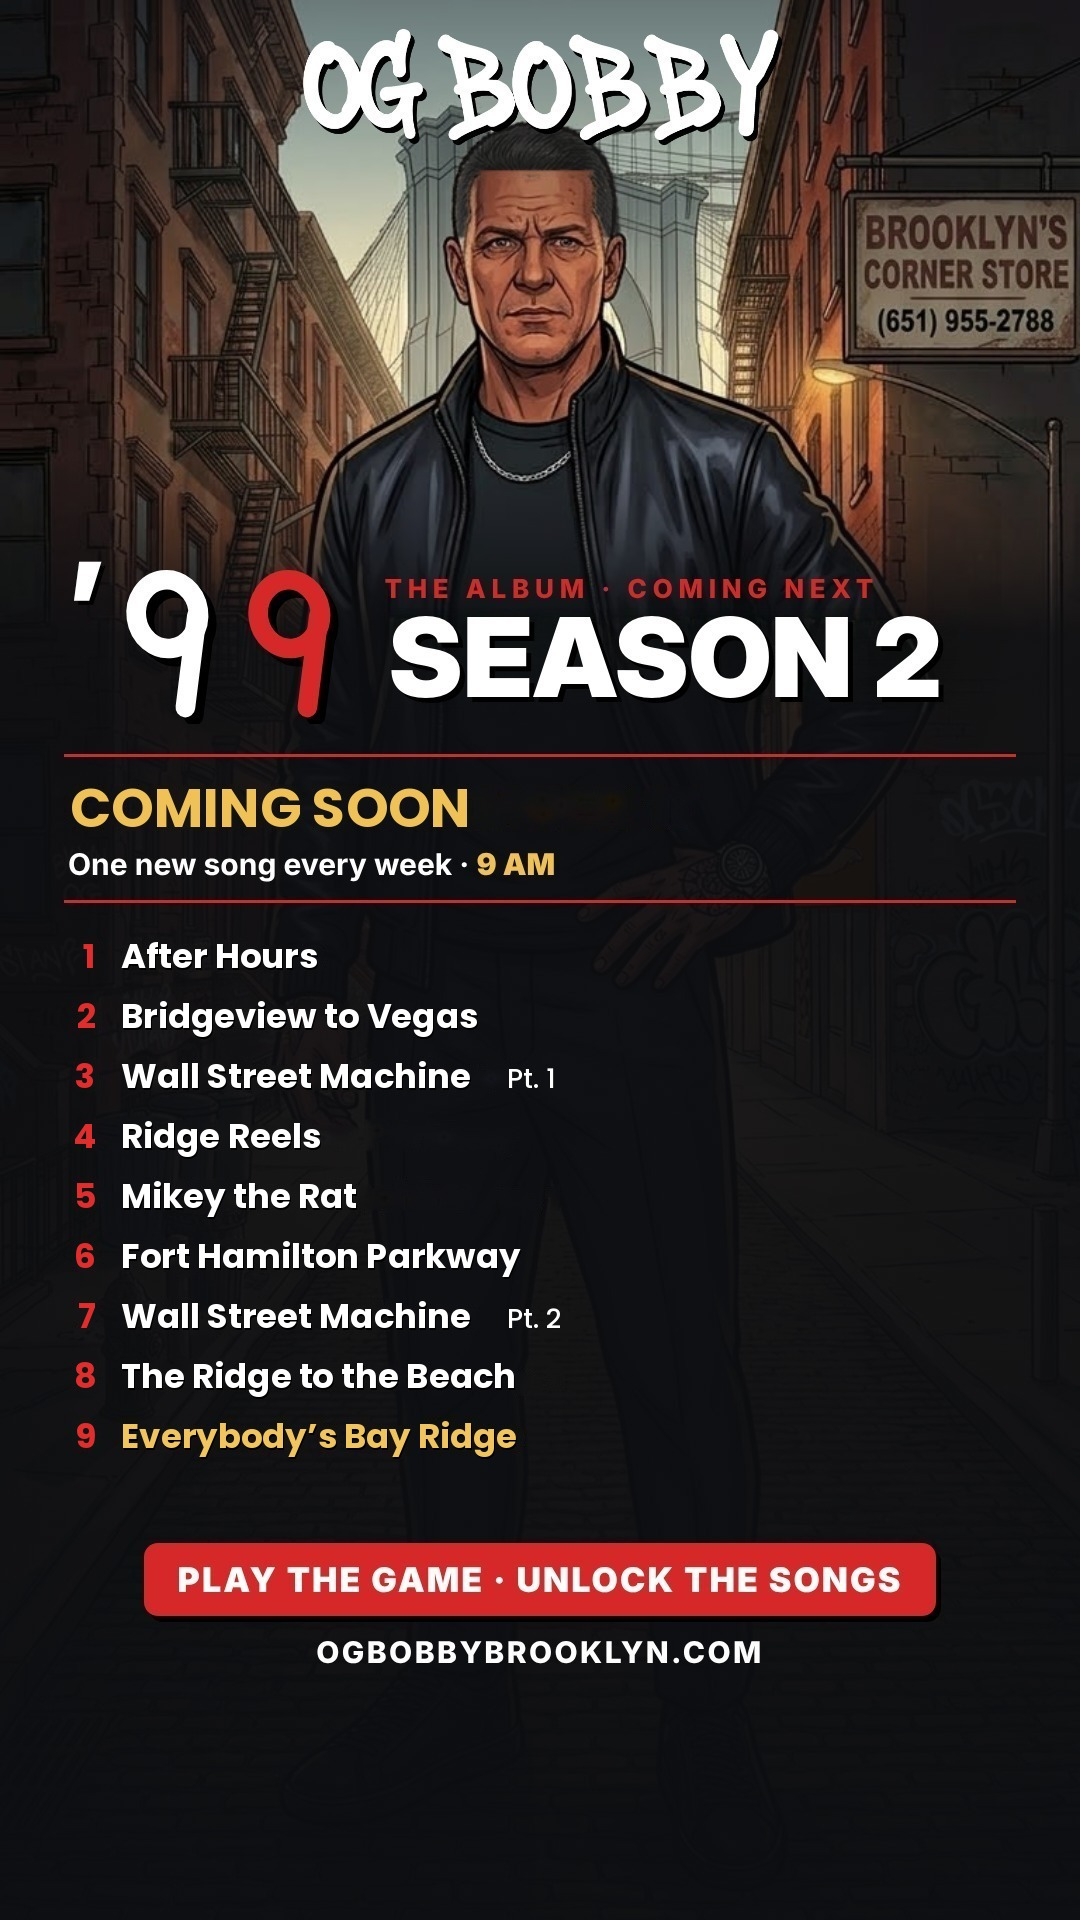
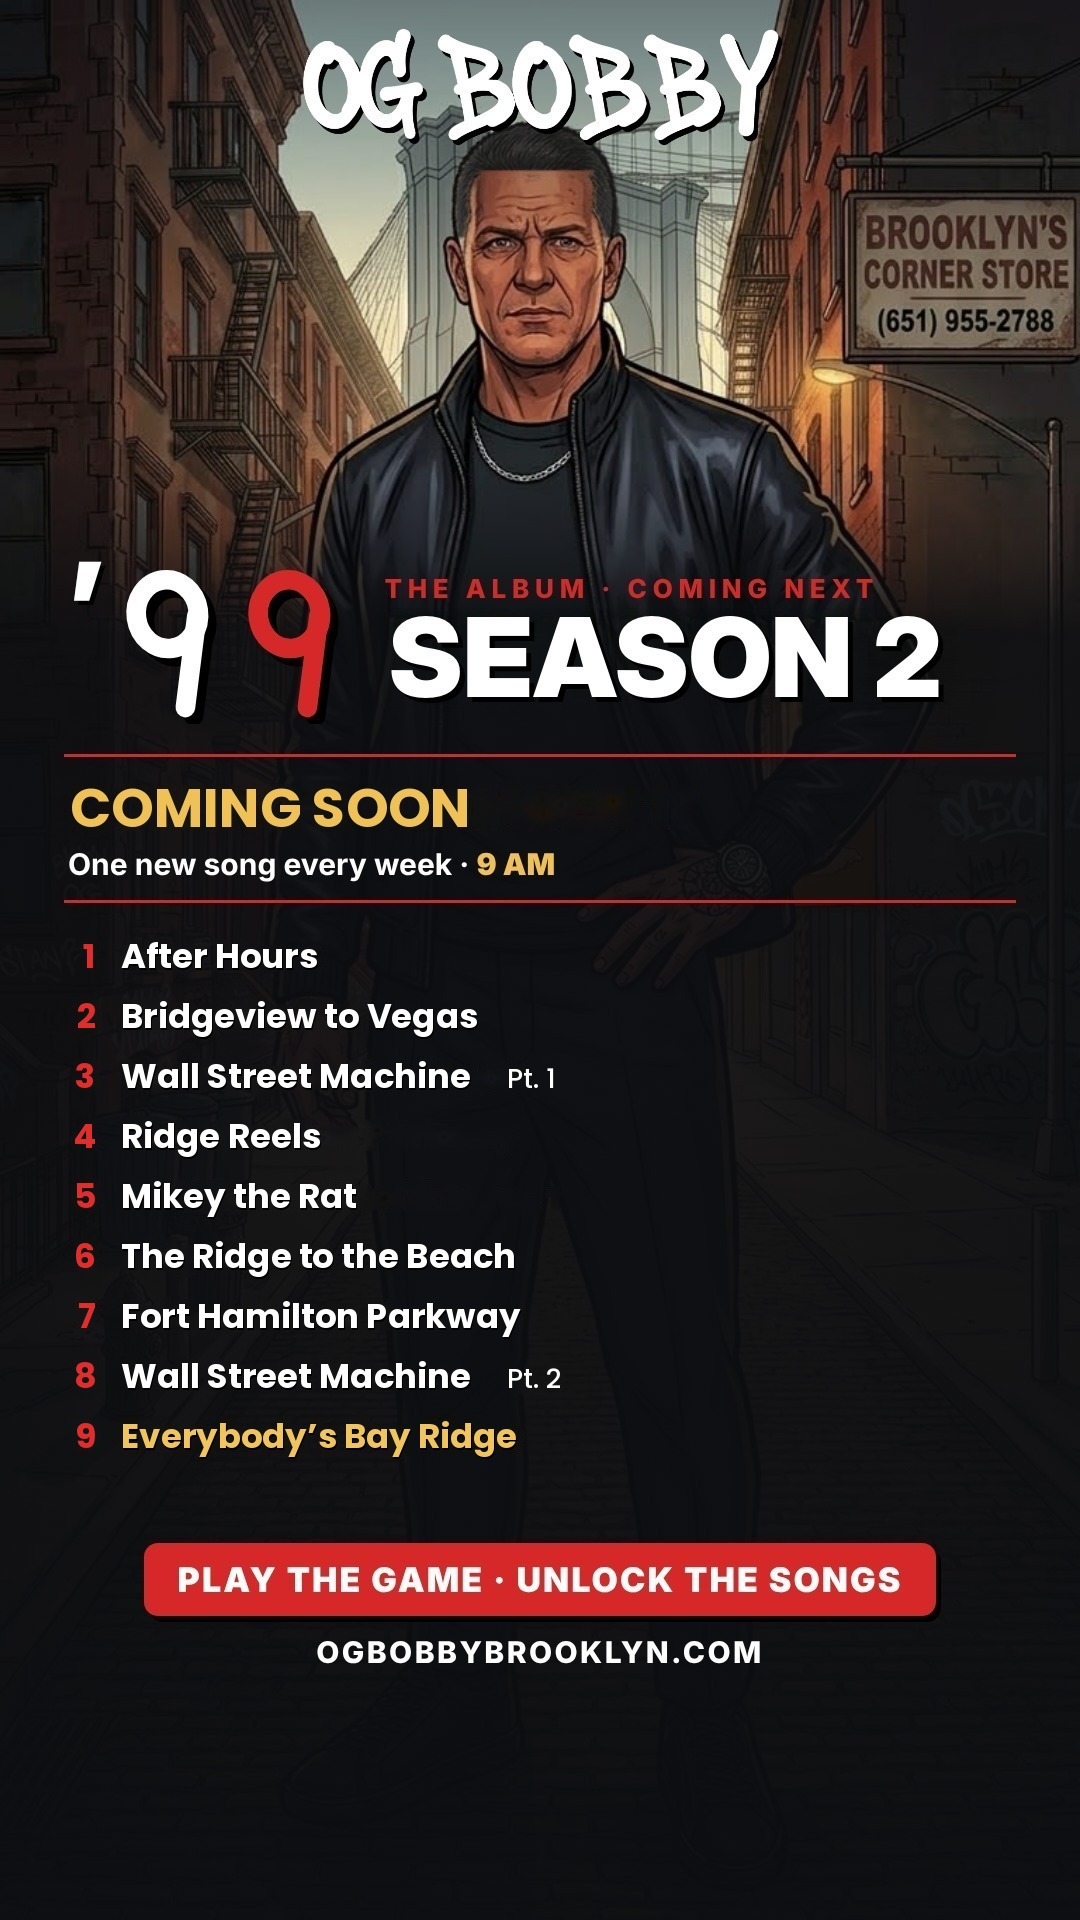
Season 2 order: Ridge to the Beach 6, Fort Hamilton Parkway 7, Wall Street Machine Pt. 2 at 8; retag songs and promo art
Claude-Session: https://claude.ai/code/session_01BpZKenSvxs4uDVQTWvuMZ1

Changed region(s): [[0.1222, 0.625, 0.5194, 0.75]]

diff --git a/og-made-99-feafc5/index.html b/og-made-99-feafc5/index.html
@@ -143,7 +143,7 @@ footer { color: var(--soft); font-size: .8rem; text-align: center; }
 </div>
 <audio id="audio" preload="metadata"></audio>
 <script>
-const CFG = {"mode": "tracks", "mix": "", "tracks": [{"t": "Whatever It Takes", "f": "36205c960b63.mp3", "d": 157.52, "s": 0.0, "n": 1, "se": 1}, {"t": "Ridge Brothers", "f": "59371541676c.mp3", "d": 206.39, "s": 0.0, "n": 2, "se": 1}, {"t": "Bay Ridge Nights", "f": "0cffe671ed63.mp3", "d": 187.17, "s": 0.0, "n": 3, "se": 1}, {"t": "The Get Back (Raw Cut)", "f": "628661269f01.mp3", "d": 202.42, "s": 0.0, "n": 4, "se": 1}, {"t": "Pioneer", "f": "2fcf00af916f.mp3", "d": 202.27, "s": 0.0, "n": 5, "se": 1}, {"t": "Bars & Clubs", "f": "e3f3994d13d2.mp3", "d": 160.99, "s": 0.0, "n": 6, "se": 1}, {"t": "Bay Ridge Is Mine", "f": "07e0acbb50a5.mp3", "d": 270.16, "s": 0.0, "n": 7, "se": 1}, {"t": "Black Rob", "f": "2ddaa23c04ec.mp3", "d": 214.18, "s": 0.0, "n": 8, "se": 1}, {"t": "Positivity Spreads", "f": "04ad61a7d37e.mp3", "d": 222.8, "s": 0.0, "n": 9, "se": 1}, {"t": "After Hours", "f": "f999844d0224.mp3", "d": 277.37, "s": 0.0, "n": 1, "se": 2}, {"t": "Bridgeview to Vegas", "f": "b54a71f1b2ed.mp3", "d": 244.82, "s": 0.0, "n": 2, "se": 2}, {"t": "Wall Street Machine, Pt. 1", "f": "78a96d218928.mp3", "d": 186.02, "s": 0.0, "n": 3, "se": 2}, {"t": "Ridge Reels", "f": "daec866bb022.mp3", "d": 114.43, "s": 0.0, "n": 4, "se": 2}, {"t": "Mikey the Rat", "f": "cc5d301f8062.mp3", "d": 245.94, "s": 0.0, "n": 5, "se": 2}, {"t": "Fort Hamilton Parkway", "f": "3e21ffaaa1e1.mp3", "d": 262.44, "s": 0.0, "n": 6, "se": 2}, {"t": "Wall Street Machine, Pt. 2", "f": "256b761215fd.mp3", "d": 172.22, "s": 0.0, "n": 7, "se": 2}, {"t": "The Ridge to The Beach", "f": "7da0390d9b18.mp3", "d": 121.75, "s": 0.0, "n": 8, "se": 2}, {"t": "Everybody's Bay Ridge", "f": "625ec773210c.mp3", "d": 216.02, "s": 0.0, "n": 9, "se": 2}]};
+const CFG = {"mode": "tracks", "mix": "", "tracks": [{"t": "Whatever It Takes", "f": "36205c960b63.mp3", "d": 157.52, "s": 0.0, "n": 1, "se": 1}, {"t": "Ridge Brothers", "f": "59371541676c.mp3", "d": 206.39, "s": 0.0, "n": 2, "se": 1}, {"t": "Bay Ridge Nights", "f": "0cffe671ed63.mp3", "d": 187.17, "s": 0.0, "n": 3, "se": 1}, {"t": "The Get Back (Raw Cut)", "f": "628661269f01.mp3", "d": 202.42, "s": 0.0, "n": 4, "se": 1}, {"t": "Pioneer", "f": "2fcf00af916f.mp3", "d": 202.27, "s": 0.0, "n": 5, "se": 1}, {"t": "Bars & Clubs", "f": "e3f3994d13d2.mp3", "d": 160.99, "s": 0.0, "n": 6, "se": 1}, {"t": "Bay Ridge Is Mine", "f": "07e0acbb50a5.mp3", "d": 270.16, "s": 0.0, "n": 7, "se": 1}, {"t": "Black Rob", "f": "2ddaa23c04ec.mp3", "d": 214.18, "s": 0.0, "n": 8, "se": 1}, {"t": "Positivity Spreads", "f": "04ad61a7d37e.mp3", "d": 222.8, "s": 0.0, "n": 9, "se": 1}, {"t": "After Hours", "f": "f999844d0224.mp3", "d": 277.37, "s": 0.0, "n": 1, "se": 2}, {"t": "Bridgeview to Vegas", "f": "b54a71f1b2ed.mp3", "d": 244.82, "s": 0.0, "n": 2, "se": 2}, {"t": "Wall Street Machine, Pt. 1", "f": "78a96d218928.mp3", "d": 186.02, "s": 0.0, "n": 3, "se": 2}, {"t": "Ridge Reels", "f": "daec866bb022.mp3", "d": 114.43, "s": 0.0, "n": 4, "se": 2}, {"t": "Mikey the Rat", "f": "cc5d301f8062.mp3", "d": 245.94, "s": 0.0, "n": 5, "se": 2}, {"t": "The Ridge to The Beach", "f": "7da0390d9b18.mp3", "d": 121.75, "s": 0.0, "n": 6, "se": 2}, {"t": "Fort Hamilton Parkway", "f": "3e21ffaaa1e1.mp3", "d": 262.44, "s": 0.0, "n": 7, "se": 2}, {"t": "Wall Street Machine, Pt. 2", "f": "256b761215fd.mp3", "d": 172.22, "s": 0.0, "n": 8, "se": 2}, {"t": "Everybody's Bay Ridge", "f": "625ec773210c.mp3", "d": 216.02, "s": 0.0, "n": 9, "se": 2}]};
 const T = CFG.tracks, FADE = CFG.mode === "fade";
 const audio = document.getElementById("audio");
 const $ = id => document.getElementById(id);

diff --git a/og-made-2-9009fa/index.html b/og-made-2-9009fa/index.html
@@ -137,7 +137,7 @@ footer { color: var(--soft); font-size: .8rem; text-align: center; }
 </div>
 <audio id="audio" preload="metadata"></audio>
 <script>
-const CFG = {"mode": "tracks", "mix": "", "tracks": [{"t": "After Hours", "f": "f999844d0224.mp3", "d": 277.37, "s": 0.0, "n": 1}, {"t": "Bridgeview to Vegas", "f": "b54a71f1b2ed.mp3", "d": 244.82, "s": 0.0, "n": 2}, {"t": "Wall Street Machine, Pt. 1", "f": "78a96d218928.mp3", "d": 186.02, "s": 0.0, "n": 3}, {"t": "Ridge Reels", "f": "daec866bb022.mp3", "d": 114.43, "s": 0.0, "n": 4}, {"t": "Mikey the Rat", "f": "cc5d301f8062.mp3", "d": 245.94, "s": 0.0, "n": 5}, {"t": "Fort Hamilton Parkway", "f": "3e21ffaaa1e1.mp3", "d": 262.44, "s": 0.0, "n": 6}, {"t": "Wall Street Machine, Pt. 2", "f": "256b761215fd.mp3", "d": 172.22, "s": 0.0, "n": 7}, {"t": "The Ridge to The Beach", "f": "7da0390d9b18.mp3", "d": 121.75, "s": 0.0, "n": 8}, {"t": "Everybody's Bay Ridge", "f": "625ec773210c.mp3", "d": 216.02, "s": 0.0, "n": 9}]};
+const CFG = {"mode": "tracks", "mix": "", "tracks": [{"t": "After Hours", "f": "f999844d0224.mp3", "d": 277.37, "s": 0.0, "n": 1}, {"t": "Bridgeview to Vegas", "f": "b54a71f1b2ed.mp3", "d": 244.82, "s": 0.0, "n": 2}, {"t": "Wall Street Machine, Pt. 1", "f": "78a96d218928.mp3", "d": 186.02, "s": 0.0, "n": 3}, {"t": "Ridge Reels", "f": "daec866bb022.mp3", "d": 114.43, "s": 0.0, "n": 4}, {"t": "Mikey the Rat", "f": "cc5d301f8062.mp3", "d": 245.94, "s": 0.0, "n": 5}, {"t": "The Ridge to The Beach", "f": "7da0390d9b18.mp3", "d": 121.75, "s": 0.0, "n": 6}, {"t": "Fort Hamilton Parkway", "f": "3e21ffaaa1e1.mp3", "d": 262.44, "s": 0.0, "n": 7}, {"t": "Wall Street Machine, Pt. 2", "f": "256b761215fd.mp3", "d": 172.22, "s": 0.0, "n": 8}, {"t": "Everybody's Bay Ridge", "f": "625ec773210c.mp3", "d": 216.02, "s": 0.0, "n": 9}]};
 const T = CFG.tracks, FADE = CFG.mode === "fade";
 const audio = document.getElementById("audio");
 const $ = id => document.getElementById(id);

diff --git a/season-2/index.html b/season-2/index.html
@@ -7,11 +7,11 @@
 <meta property="og:type" content="music.album">
 <meta property="og:title" content="OG Made · Season 2">
 <meta property="og:description" content="Coming soon. One new episode every week at 9 AM. Play the game and unlock the songs.">
-<meta property="og:image" content="https://ogbobbybrooklyn.com/vol-2/vol2-feed.jpg?v=6">
+<meta property="og:image" content="https://ogbobbybrooklyn.com/vol-2/vol2-feed.jpg?v=7">
 <meta property="og:url" content="https://ogbobbybrooklyn.com/season-2/">
 <meta name="twitter:card" content="summary_large_image">
 <meta name="twitter:title" content="OG Made · Season 2">
-<meta name="twitter:image" content="https://ogbobbybrooklyn.com/vol-2/vol2-feed.jpg?v=6">
+<meta name="twitter:image" content="https://ogbobbybrooklyn.com/vol-2/vol2-feed.jpg?v=7">
 <link rel="icon" href="../icon-game.png?v=2">
 <link rel="apple-touch-icon" href="../icon-game.png?v=2">
 <style>
@@ -22,6 +22,6 @@ img { width: 100%; max-width: 540px; height: auto; display: block; border-radius
 a { display: block; width: 100%; max-width: 540px; text-align: center; text-decoration: none; font-weight: 800; letter-spacing: .06em; color: #fff; background: #d62828; padding: 16px; border-radius: 12px; }
 </style>
 </head><body>
-<img src="/vol-2/vol2-feed.jpg?v=6" alt="OG Bobby OG Made '99, Season 2. Coming soon, one new episode every week at 9 AM.">
+<img src="/vol-2/vol2-feed.jpg?v=7" alt="OG Bobby OG Made '99, Season 2. Coming soon, one new episode every week at 9 AM.">
 <a href="https://ogbobbybrooklyn.com/">PLAY THE GAME</a>
 </body></html>

diff --git a/vol-2/index.html b/vol-2/index.html
@@ -7,11 +7,11 @@
 <meta property="og:type" content="music.album">
 <meta property="og:title" content="OG Made · Season 2">
 <meta property="og:description" content="Coming soon. One new episode every week at 9 AM. Play the game and unlock the songs.">
-<meta property="og:image" content="https://ogbobbybrooklyn.com/vol-2/vol2-feed.jpg?v=6">
+<meta property="og:image" content="https://ogbobbybrooklyn.com/vol-2/vol2-feed.jpg?v=7">
 <meta property="og:url" content="https://ogbobbybrooklyn.com/vol-2/">
 <meta name="twitter:card" content="summary_large_image">
 <meta name="twitter:title" content="OG Made · Season 2">
-<meta name="twitter:image" content="https://ogbobbybrooklyn.com/vol-2/vol2-feed.jpg?v=6">
+<meta name="twitter:image" content="https://ogbobbybrooklyn.com/vol-2/vol2-feed.jpg?v=7">
 <link rel="icon" href="../icon-game.png?v=2">
 <link rel="apple-touch-icon" href="../icon-game.png?v=2">
 <style>
@@ -22,6 +22,6 @@ img { width: 100%; max-width: 540px; height: auto; display: block; border-radius
 a { display: block; width: 100%; max-width: 540px; text-align: center; text-decoration: none; font-weight: 800; letter-spacing: .06em; color: #fff; background: #d62828; padding: 16px; border-radius: 12px; }
 </style>
 </head><body>
-<img src="vol2-feed.jpg?v=6" alt="OG Bobby OG Made '99, Season 2. Coming soon, one new episode every week at 9 AM.">
+<img src="vol2-feed.jpg?v=7" alt="OG Bobby OG Made '99, Season 2. Coming soon, one new episode every week at 9 AM.">
 <a href="https://ogbobbybrooklyn.com/">PLAY THE GAME</a>
 </body></html>

diff --git a/index.html b/index.html
@@ -1349,7 +1349,7 @@ window.scrollTo(0, 0);
     showRaw(Math.min(RAW.length - 1, rv + d));
   }
   /* Season 2: titles only, everything locked, nothing plays. Add a title here when a song is ready to tease. */
-  const VOL2 = ["After Hours", "Bridgeview to Vegas", "Wall Street Machine, Pt. 1", "Ridge Reels", "Mikey the Rat", "Fort Hamilton Parkway", "Wall Street Machine, Pt. 2", "The Ridge to the Beach", "Everybody\u2019s Bay Ridge"];
+  const VOL2 = ["After Hours", "Bridgeview to Vegas", "Wall Street Machine, Pt. 1", "Ridge Reels", "Mikey the Rat", "The Ridge to the Beach", "Fort Hamilton Parkway", "Wall Street Machine, Pt. 2", "Everybody\u2019s Bay Ridge"];
   function renderV2() {
     let tiles = "";
     for (let i = 0; i < 9; i++) {
